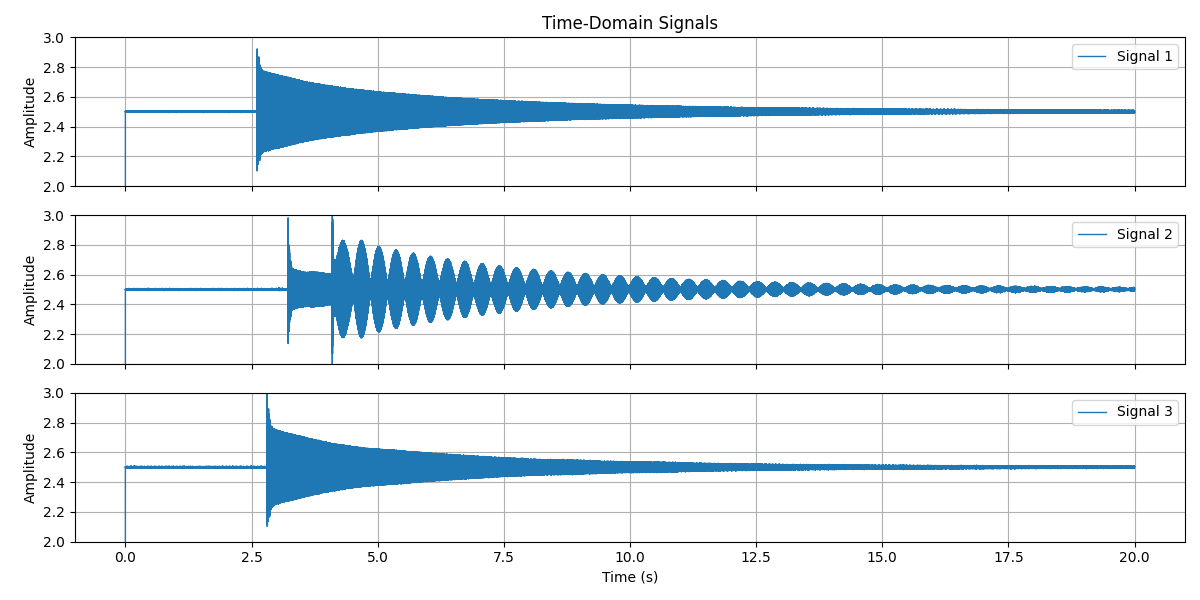
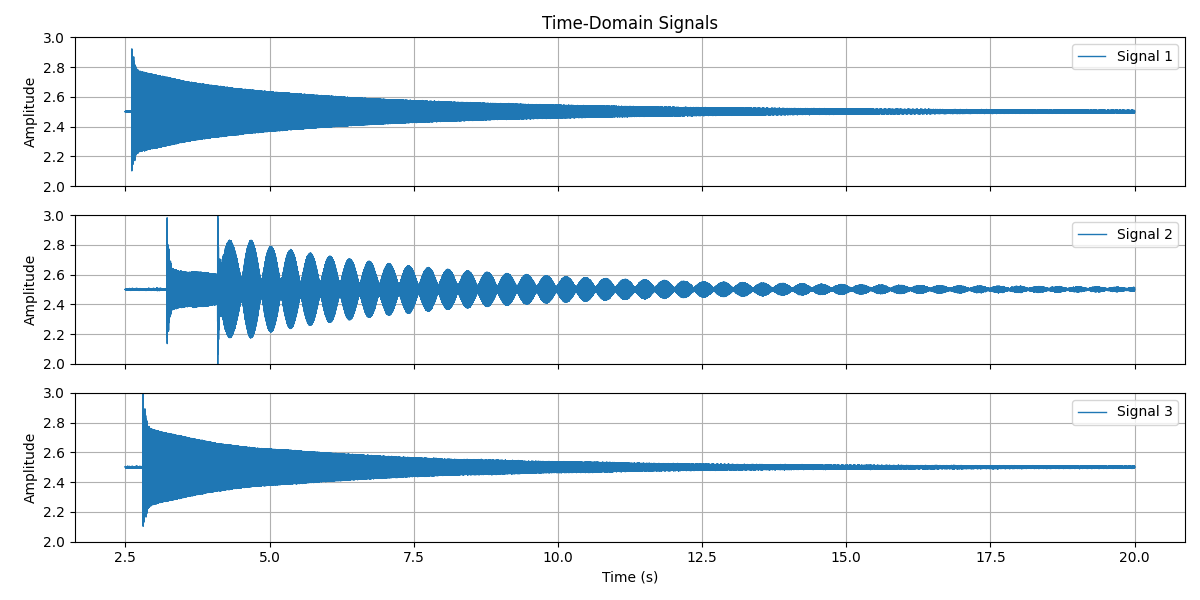
ex12p2

diff --git a/exercise12/tuningfork.py b/exercise12/tuningfork.py
@@ -18,12 +18,16 @@ signal3 = read_signal('sample3.dat')
 ## Plot time-domain signals. File has t and amplitude columns
 ## Create a subplot for each signal
 ## Scale y-axis between 2 and 3
-def plot_time_domain(signals, labels):
+def plot_time_domain(signals, labels, strip_time=2.5):
     fig, axs = plt.subplots(len(signals), 1, figsize=(12, 6), sharex=True)
     for ax, signal, label in zip(axs, signals, labels):
         if signal is not None:
             t = signal[:, 0]
             amplitude = signal[:, 1]
+            ## Strip 2.5 seconds from start
+            mask = t >= strip_time
+            t = t[mask]
+            amplitude = amplitude[mask]
             ax.plot(t, amplitude, label=label, linewidth=1)
     axs[0].set_title('Time-Domain Signals')
     axs[-1].set_xlabel('Time (s)')
@@ -37,28 +41,41 @@ def plot_time_domain(signals, labels):
 
 plot_time_domain([signal1, signal2, signal3], ['Signal 1', 'Signal 2', 'Signal 3'])
 
-## Compute and plot frequency-domain signals using FFT
-## Strip away strip_time seconds from start
-## Limit frequency axis to 0-max_freq Hz
+## Compute multiple frequency-domain signals using FFT
+def compute_all_fft(signals, strip_time=2.5):
+    fsignals = []
+    for signal in signals:
+        fsignal = compute_fft(signal, strip_time)
+        fsignals.append(fsignal)
+    return fsignals
 
-def plot_frequency_domain(signals, labels, strip_time=2.5, max_freq=2000):
-    fig, axs = plt.subplots(len(signals), 1, figsize=(12, 6), sharex=True)
-    for ax, signal, label in zip(axs, signals, labels):
+
+def compute_fft(signal, strip_time=2.5):    
+    if signal is None:
+        return None
+    t = signal[:, 0]
+    amplitude = signal[:, 1]
+    ## Strip 2.5 seconds from start         
+    mask = t >= strip_time
+    t = t[mask]
+    amplitude = amplitude[mask]
+    N = len(amplitude)
+    T = t[1] - t[0]  # Sampling interval
+    ## Compute FFT using pyfftw
+    xf = np.fft.rfftfreq(N, T)
+    yf = pyfftw.interfaces.numpy_fft.rfft(amplitude)
+    return np.column_stack((xf, np.abs(yf)))
+
+
+## Plot frequency-domain signals
+## Limit frequency axis to 0-max_freq Hz
+def plot_frequency_domain(fsignals, labels, filename, max_freq=2000):
+    fig, axs = plt.subplots(len(fsignals), 1, figsize=(12, 6), sharex=True)
+    for ax, signal, label in zip(axs, fsignals, labels):
         if signal is not None:
-            t = signal[:, 0]
-            amplitude = signal[:, 1]
-            ## Strip 2.5 seconds from start
-            mask = t >= strip_time
-            t = t[mask]
-            amplitude = amplitude[mask]
-            N = len(amplitude)
-            T = t[1] - t[0]  # Sampling interval
-            ## Report Nyquist frequency
-            nyquist_freq = 0.5 / T
-            print(f"Nyquist frequency for {label}: {nyquist_freq:.2f} Hz")
-            ## Compute FFT using pyfftw
-            xf = np.fft.rfftfreq(N, T)
-            yf = pyfftw.interfaces.numpy_fft.rfft(amplitude)
+            xf = signal[:, 0]
+            yf = signal[:, 1]
+            N = len(yf)
             ## Report 10 highest frequency components in descending order 
             ## and print out their frequency and magnitude.
             ## Ignore the DC component at index 0. 
@@ -99,45 +116,56 @@ def plot_frequency_domain(signals, labels, strip_time=2.5, max_freq=2000):
         ax.legend()
         ax.grid()
     plt.tight_layout()
-    plt.savefig('frequency_domain_signals.png')
+    plt.savefig(filename)
 
 
-plot_frequency_domain([signal1, signal2, signal3], ['Signal 1', 'Signal 2', 'Signal 3'])
-
-## Do a windowed FFT using a Welch window. Slice the time series into two parts using given splitting time and plot the two parts with different colours on the same graph.
-def plot_windowed_fft(signals, labels, window_size=2048, overlap=1024, max_freq=2000):
-    fig, axs = plt.subplots(len(signals), 1, figsize=(12, 6), sharex=True)
-    for ax, signal, label in zip(axs, signals, labels):
-        if signal is not None:
-            t = signal[:, 0]
-            amplitude = signal[:, 1]
-            ## Strip 2.5 seconds from start
-            mask = t >= 2.5
-            t = t[mask]
-            amplitude = amplitude[mask]
-            N = len(amplitude)
-            T = t[1] - t[0]  # Sampling interval
-            ## Compute windowed FFT using Welch method
-            from scipy.signal import welch
-            # adjust nperseg and noverlap to not exceed the available data length
-            nperseg = min(window_size, max(1, N))
-            noverlap = min(overlap, max(0, nperseg - 1))
-            freqs, psd = welch(amplitude, fs=1/T, window='hann', nperseg=nperseg, noverlap=noverlap)
-            ## Limit frequency axis to 0-max_freq Hz
-            freq_mask = freqs <= max_freq
-            freqs = freqs[freq_mask]
-            psd = psd[freq_mask]
-            ## Plot windowed FFT in log scale
-            ax.semilogy(freqs, psd, label=label, linewidth=1)
-    # use the figure object so it is accessed (avoids unused-variable warning)
-    fig.suptitle('Windowed FFT (Welch Method)')
-    axs[-1].set_xlabel('Frequency (Hz)')
-    for ax in axs:
-        ax.set_ylabel('Power Spectral Density')
-        ax.legend()
-        ax.grid()
-    fig.tight_layout()
-    fig.savefig('windowed_fft_signals.png')
+[fsignal1, fsignal2, fsignal3] = compute_all_fft([signal1, signal2, signal3])
 
 
-plot_windowed_fft([signal1, signal2, signal3], ['Signal 1', 'Signal 2', 'Signal 3'])
+plot_frequency_domain([fsignal1, fsignal2, fsignal3], ['Signal 1', 'Signal 2', 'Signal 3'], 'frequency_domain_signals.png')
+
+## Do a windowed FFT using a Welch window. Set a center time and a window size.
+def windowed_fft(signal, center_time=5.0, window_size=1.0, strip_time=2.5):
+    if signal is None:
+        return None
+    t = signal[:, 0]
+    amplitude = signal[:, 1]
+    ## Strip 2.5 seconds from start
+    mask = t >= strip_time
+    t = t[mask]
+    amplitude = amplitude[mask]
+    ## Select windowed segment
+    half_window = window_size / 2
+    window_mask = (t >= center_time - half_window) & (t <= center_time + half_window)
+    t_window = t[window_mask]
+    amplitude_window = amplitude[window_mask]
+    N = len(amplitude_window)
+    if N < 2:
+        return None
+    T = t_window[1] - t_window[0]  # Sampling interval
+    ## Apply Welch (parabolic) window: w[n] = 1 - ((n - (N-1)/2) / ((N-1)/2))^2
+    n = np.arange(N)
+    denom = (N - 1) / 2.0
+    if denom == 0:
+        window = np.ones(N)
+    else:
+        window = 1.0 - ((n - denom) / denom) ** 2
+    amplitude_windowed = amplitude_window * window
+    ## Compute FFT using pyfftw
+    xf = np.fft.rfftfreq(N, T)
+    yf = pyfftw.interfaces.numpy_fft.rfft(amplitude_windowed)
+    return np.column_stack((xf, np.abs(yf)))
+
+
+def windowed_all_fft(signals, center_time=5.0, window_size=1.0, strip_time=2.5):
+    fsignals = []
+    for signal in signals:
+        fsignal = windowed_fft(signal, center_time, window_size, strip_time)
+        fsignals.append(fsignal)
+    return fsignals
+
+
+windowed_fsignals = windowed_all_fft([signal1, signal2, signal3], center_time=5.0, window_size=1.0)
+
+
+plot_frequency_domain(windowed_fsignals, ['Signal 1 Windowed', 'Signal 2 Windowed', 'Signal 3 Windowed'], filename='windowed_frequency_domain_signals.png')
